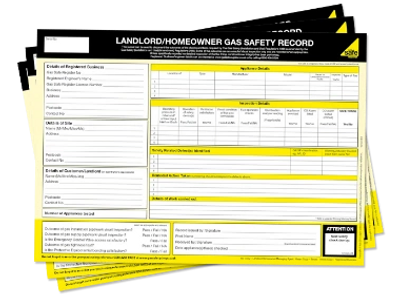
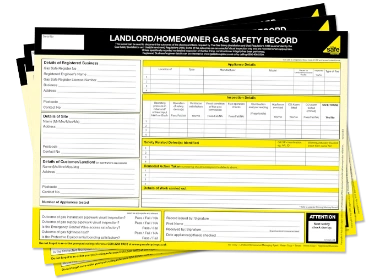
Larger certificate image

Changed region(s): [[0.0289, 0.0, 0.9842, 1.0], [0.4921, 0.4, 0.5211, 0.4286]]

diff --git a/gas-safety-checks.html b/gas-safety-checks.html
@@ -76,7 +76,7 @@
     }
     .gs-cp12 img {
       width: 100%;
-      max-width: 350px;
+      max-width: 550px;
       margin: 0 auto;
       display: block;
     }
